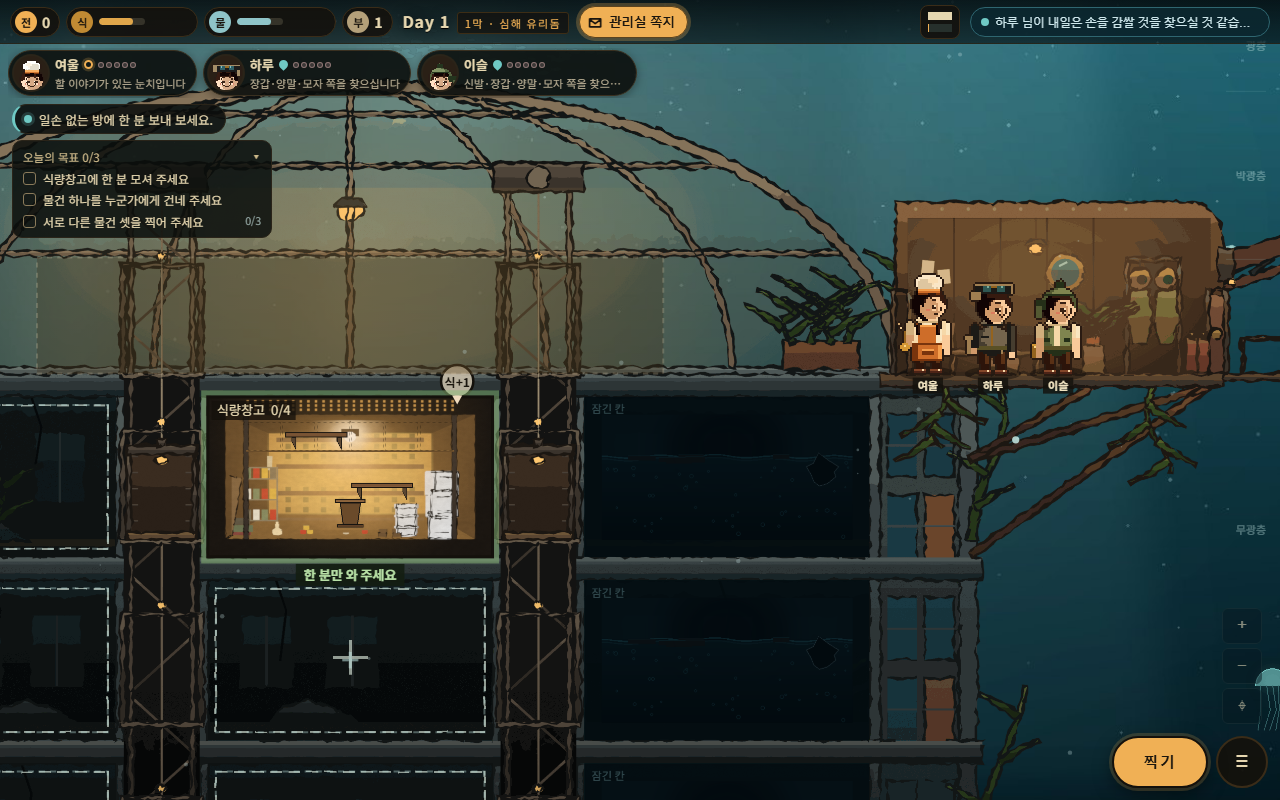
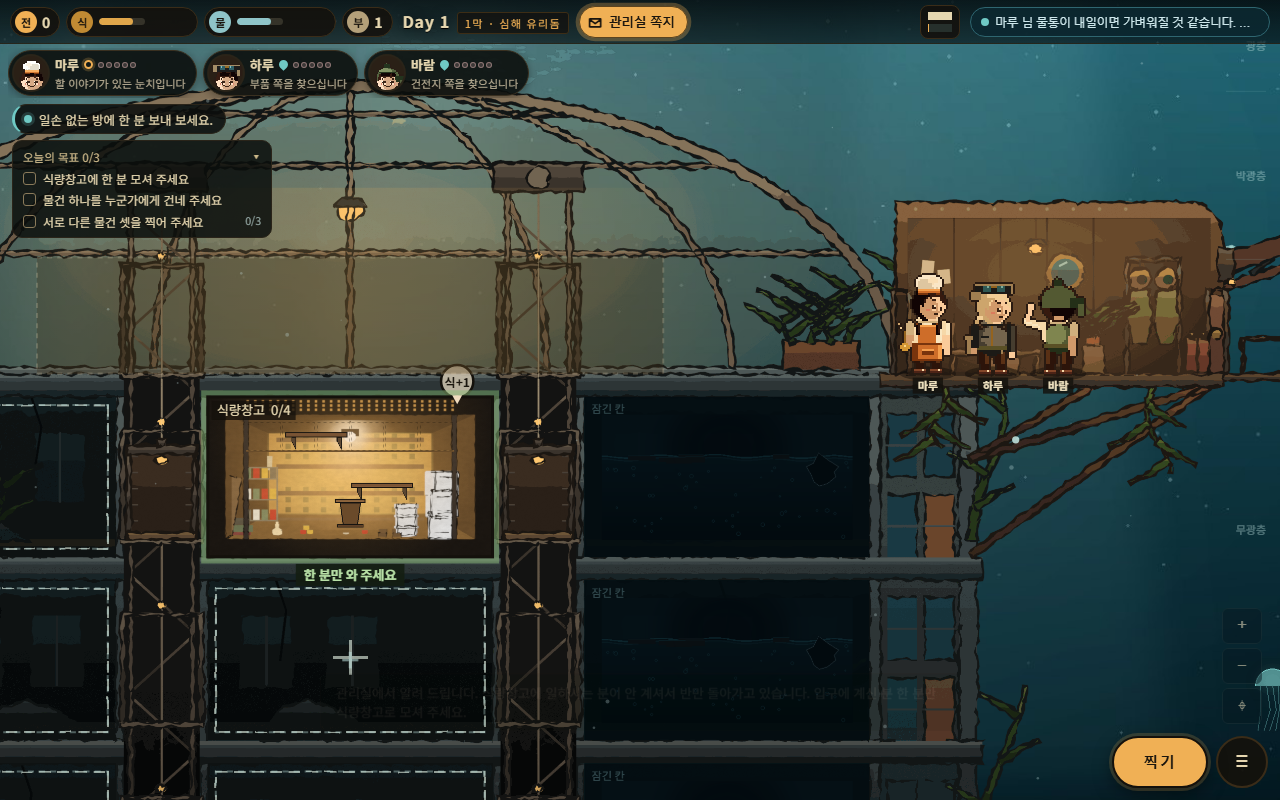
feat(relic-ark): S37 주민 겉모습 — 체형·머리·얼굴을 uid·주민 id로 정해 저장(역할·이름과 무관), 방 안·문간에 그대로 그림; API §26, test_s37

diff --git a/projects/02-barcode-game/v2-relic-ark/static/base_people.js b/projects/02-barcode-game/v2-relic-ark/static/base_people.js
@@ -89,6 +89,10 @@
     const sb = strip.hidden ? top0 : strip.getBoundingClientRect().bottom;
     const ns = $('#nextstep'); if (ns) ns.style.top = (sb + 6) + 'px';
   }
+  // S35 겉모습(API §26): residents_list[].appearance {body, hair, face, sheet} → 그리기가 읽는 p.body·hair·face 로 옮긴다
+  const lookIn = (st) => (st.residents_list || []).forEach(r => { const ap = r && r.appearance; if (!ap) return; if (ap.body) r.body = ap.body; if (ap.hair) r.hair = ap.hair; if (ap.face) r.face = ap.face; });
+  K.onApply((st) => lookIn(st));
+  if (K.ark) lookIn(K.ark);
   K.onApply(() => setTimeout(drawFaces, 0));
   // 패널(짓기·도감 등)이 열리면 얼굴 띠는 잠시 숨는다 — 큰 창은 하나(패널 위로 띠가 겹치던 것)
   const pn = document.getElementById('panel');

diff --git a/projects/02-barcode-game/v2-relic-ark/tests/test_s37.py b/projects/02-barcode-game/v2-relic-ark/tests/test_s37.py
@@ -1,0 +1,87 @@
+"""S37 서버 검증 — 주민 겉모습(appearance: 체형·머리·얼굴).
+
+실행:  python tests/test_s37.py
+"""
+from __future__ import annotations
+
+import collections
+import os
+import random
+import sys
+import tempfile
+import traceback
+from pathlib import Path
+
+os.environ["RELIC_DEV"] = "1"
+ROOT = Path(__file__).resolve().parent.parent
+sys.path.insert(0, str(ROOT))
+sys.stdout.reconfigure(encoding="utf-8")
+
+import server as S  # noqa: E402
+from fastapi.testclient import TestClient  # noqa: E402
+
+S.DB = Path(tempfile.mkdtemp()) / "t37.db"
+S.DEV_MODE = True
+S.NEW_STATE_SEED = "s37"
+S.init_db()
+C = TestClient(S.app)
+RESULTS: list[tuple[bool, str]] = []
+S.now_hour = lambda: 10
+
+
+def ok(cond, msg):
+    RESULTS.append((bool(cond), msg))
+    print(("OK   " if cond else "FAIL ") + msg)
+
+
+def t_fields_and_persist():
+    """/api/ark core.residents[].appearance · residents_list 에도 · 한 번 정하면 그대로."""
+    uid = "dev_s37_a"
+    a = C.get(f"/api/ark?uid={uid}").json()
+    aps = {rid: r["appearance"] for rid, r in a["core"]["residents"].items()}
+    ok(all(ap["body"] in ("a", "b") and ap["hair"] in S.LOOK_HAIRS and ap["face"] in S.LOOK_FACES for ap in aps.values()), f"겉모습 {aps}")
+    st = S.load_state(uid)
+    ok(all(r.get("appearance") == aps[r["id"]] for r in st["residents_list"]), "residents_list 에 저장")
+    again = C.get(f"/api/ark?uid={uid}").json()["core"]["residents"]
+    ok(all(again[rid]["appearance"] == ap for rid, ap in aps.items()), "다시 열어도 같다")
+    r0 = st["residents_list"][0]
+    ok(S.appearance_of(uid, dict(r0, appearance=None)) == aps[r0["id"]], "같은 uid+id → 같은 겉모습(D6)")
+    ok(all(aps[r["id"]]["sheet"] == r["role"] + ("_b" if aps[r["id"]]["body"] == "b" else "") for r in st["residents_list"]), "시트 이름 role[_b]")
+
+
+def t_distribution_independent():
+    """많은 사람: 체형 a·b, 머리 6, 얼굴 3이 고르게 · 역할(아이 포함)과 무관 · 18조합 모두 나온다."""
+    by_role = collections.defaultdict(collections.Counter)
+    bodies, hairs, faces, combos = collections.Counter(), collections.Counter(), collections.Counter(), set()
+    for i in range(1200):
+        role = S.ROLE_IDS[i % len(S.ROLE_IDS)]
+        r = S.make_resident(role, random.Random(i), set(), "u")
+        ap = S.appearance_of(f"u{i // 7}", r)
+        bodies[ap["body"]] += 1
+        hairs[ap["hair"]] += 1
+        faces[ap["face"]] += 1
+        combos.add((ap["hair"], ap["face"]))
+        by_role[role][ap["body"]] += 1
+    ok(min(bodies.values()) / sum(bodies.values()) > 0.4, f"체형 {dict(bodies)}")
+    ok(len(hairs) == 6 and min(hairs.values()) > 120, f"머리 {dict(hairs)}")
+    ok(len(faces) == 3 and min(faces.values()) > 300, f"얼굴 {dict(faces)}")
+    ok(len(combos) == 18, f"머리×얼굴 {len(combos)}조합")
+    ok(all(min(c.values()) / sum(c.values()) > 0.3 for c in by_role.values()), f"역할마다 체형 섞임(아이 {dict(by_role['kid'])})")
+
+
+TESTS = [t_fields_and_persist, t_distribution_independent]
+
+if __name__ == "__main__":
+    for t in TESTS:
+        print(f"\n## {t.__name__} — {(t.__doc__ or '').strip().splitlines()[0] if t.__doc__ else ''}")
+        try:
+            t()
+        except Exception:
+            traceback.print_exc()
+            RESULTS.append((False, f"{t.__name__} 예외"))
+    n = len(RESULTS)
+    f = [m for c, m in RESULTS if not c]
+    print(f"\n합계 {n} · 통과 {n - len(f)} · 실패 {len(f)}")
+    for m in f:
+        print("  FAIL", m)
+    sys.exit(1 if f else 0)

diff --git a/projects/02-barcode-game/v2-relic-ark/server.py b/projects/02-barcode-game/v2-relic-ark/server.py
@@ -1708,6 +1708,8 @@ def combat_public(st: dict) -> dict:
 
 
 def public_state(st: dict, uid: str) -> dict:
+    for _r in st.get("residents_list") or []:
+        appearance_of(uid, _r)                        # S37 residents_list 에도 겉모습(한 번 정하면 저장)
     with db() as con:
         today = con.execute("SELECT COUNT(*) c FROM scans WHERE uid=? AND day=?", (uid, day_of(st))).fetchone()["c"]
     _un = use_tick(st, uid)                           # S36 먼저 적어야 core.rooms.today_used 가 맞다
@@ -7519,6 +7521,7 @@ def core_public(st: dict, uid: str) -> dict:
             "third_memory_open": bool(r.get("third_memory_open")),
             "notebook": notebook_public(st, uid, r),             # S23 사람 수첩
             "heart": heart_public(st, r),                        # S34 마음
+            "appearance": appearance_of(uid, r),                 # S37 겉모습(체형·머리·얼굴)
             **comfort_public(st, uid, r),                        # S34 편한 방
         }
     return {"residents": res, "props": list(core_of(st)["props"]), "rooms": use_rooms_public(st)}   # S36 쓰는 자리
@@ -11629,6 +11632,39 @@ def use_tick(st: dict, uid: str) -> list:
     for k in [k for k, v in log_.items() if int(v) < day - 7]:
         log_.pop(k, None)
     return news
+
+
+# ── S37 주민 겉모습(static/art/chars/front/p2/meta.json bodies·hair·faces) ─────────────
+try:
+    _CHMETA = json.loads((ROOT / "static" / "art" / "chars" / "front" / "p2" / "meta.json").read_text(encoding="utf-8"))
+except (OSError, json.JSONDecodeError):
+    _CHMETA = {}
+LOOK_BODIES = sorted((_CHMETA.get("bodies") or {"a": {}, "b": {}}).keys())
+LOOK_HAIRS = [h["id"] for h in _CHMETA.get("hair") or []] or ["short", "tied", "long", "braid", "curly", "scarf"]
+LOOK_FACES = [f["id"] for f in _CHMETA.get("faces") or []] or ["f0", "f1", "f2"]
+
+
+def _fnv(text: str) -> int:
+    h = 2166136261
+    for ch in text:
+        h = ((h ^ ord(ch)) * 16777619) & 0xFFFFFFFF
+    return h
+
+
+def appearance_of(uid: str, r: dict) -> dict:
+    """체형·머리·얼굴 — 역할·성별·이름·특이점과 무관하게 uid + 주민 id 로만 고른다(D6, 2026-10-01 역할≠성별).
+    생성기 pick_look 과 같은 FNV 꼴(role 자리에 uid|id). 아이도 같은 체형 a·b(시트는 kid / kid_b). 18조합 모두 조합 패치가 있다.
+    한 번 정하면 r["appearance"] 에 남는다."""
+    ap = r.get("appearance")
+    if isinstance(ap, dict) and ap.get("body") in LOOK_BODIES and ap.get("hair") in LOOK_HAIRS and ap.get("face") in LOOK_FACES:
+        return ap
+    key = f"{uid}|{r.get('id')}"
+    body = LOOK_BODIES[(_fnv(key + "|body") >> 7) % len(LOOK_BODIES)]
+    h = _fnv(key + "|" + body + "|0")
+    ap = {"body": body, "hair": LOOK_HAIRS[h % len(LOOK_HAIRS)], "face": LOOK_FACES[(h >> 11) % len(LOOK_FACES)],
+          "sheet": f"{r.get('role')}{(_CHMETA.get('bodies') or {}).get(body, {}).get('sheet_suffix', '' if body == 'a' else '_b')}"}
+    r["appearance"] = ap
+    return ap
 
 
 # ─────────────────────────────────────────────────────────────

diff --git a/projects/02-barcode-game/v2-relic-ark/docs/reports/dev_S35_client.md b/projects/02-barcode-game/v2-relic-ark/docs/reports/dev_S35_client.md
@@ -77,3 +77,11 @@
   - 지금 서버에는 필드가 없어 견본(긴머리 + 얼굴 ②)으로 확인했다(ARKBASE.looks() = cook_a|long|f1|in, 사각형 0).
   - 확인 중 찾은 결함: 합성한 캔버스에 naturalWidth 가 없어 색 사각형으로 떨어졌다. 고쳤다.
 - 844·1280 콘솔 오류 0, 400 이상 0. 스크린샷 s35b_pods_{844,1280}.png.
+
+## 겉모습 필드 연결 (API §26, 커밋하지 않음)
+- residents_list[].appearance {body, hair, face, sheet} 를 apply 때마다 p.body·hair·face 로 옮긴다(base_people.js). 그리기는 위 「생김새」 절 그대로다(체형 B 시트 + 머리·얼굴 차이 패치).
+- 확인(8041, 새 방주 넷, 844·1280):
+  - 서버 값 그대로 그려졌다. 예: cook_b|curly|f1, engineer_b|scarf|f2, scout_a|tied|f2. 짧은머리·f0 인 사람은 패치 없이 기본 시트다.
+  - 사각형은 타이틀 뒤 6번 그대로이고, 한 번(1280)은 체형 B 시트가 늦게 와서 7번이었다.
+  - 콘솔 오류 0, 400 이상 0.
+- 남은 것: 초상(인물 카드·얼굴 띠)은 x4 시트를 오려 쓰는데, 머리·얼굴 패치가 x1 만 있어 초상에는 아직 기본 머리·얼굴만 보인다(체형 B 시트는 반영됨). 캐릭터 담당이 x4 패치를 주거나, 화면이 x1 패치를 정수 확대해 얹으면 된다. 다음 손질 때 x1 확대 쪽으로 붙이겠다.

diff --git a/projects/02-barcode-game/v2-relic-ark/docs/API_S19.md b/projects/02-barcode-game/v2-relic-ark/docs/API_S19.md
@@ -693,3 +693,18 @@
   - 사람마다 하루 한 줄 `/api/ark.use_news[] {resident_id, name, slot, spot, action, item, ko}` 가 한 번 온다.
   - 문장은 `ui_moments.use_action.<action>[]` 에서 읽는다({name} {item}).
 - 자원·숫자는 없다(장면만).
+
+## 26. S37 주민 겉모습 (2026-10-25)
+- `/api/ark.core.residents[rid].appearance` 와 `state.residents_list[].appearance` 는 `{body:"a"|"b", hair, face, sheet}` 다.
+  - hair: short · tied · long · braid · curly · scarf.
+  - face: f0 · f1 · f2.
+  - sheet: `<role>` 또는 `<role>_b`. 아이도 kid / kid_b 다.
+- **고르는 법**: uid + 주민 id 로만 고른다. 생성기 `pick_look` 과 같은 FNV 꼴이고, 체형은 별도 해시 비트를 쓴다.
+  - 역할·이름·특이점·성별과 무관하다(2026-10-01 결정).
+  - 18조합 모두 조합 패치가 있어서 어느 조합이든 그릴 수 있다(meta.json combo_patch_rule).
+  - 처음 정하면 `r.appearance` 에 저장하고, 그 뒤에는 바뀌지 않는다.
+- **그리는 순서**(meta.json imprint_compose):
+  1. `src/<sheet>.png`
+  2. `hair/<role>_<body>/<hair>.png`
+  3. 얼굴: hair≠short 이고 face≠f0 이면 `faces/<role>_<body>/<hair>_<face>.png`, 아니면 `<face>.png`
+  4. 잠수복, 그다음 각인.

diff --git a/projects/02-barcode-game/v2-relic-ark/docs/reports/dev_S19_server.md b/projects/02-barcode-game/v2-relic-ark/docs/reports/dev_S19_server.md
@@ -755,3 +755,11 @@ API §25, 진행 `docs/reports/dev_S36_progress.md`. 커밋하지 않았다.
 - **안전 목록**: 약·담배는 쳐다보기만 한다.
 - **D6**: 문장은 시드로 고른다.
 - **D7**: 문장은 시나리오 키에서 읽는다.
+
+# S37 서버 (2026-10-25) — 주민 겉모습
+- 결과: `appearance {body, hair, face, sheet}` 를 core.residents 와 residents_list 에 붙였다. uid+id 로 결정하고(생성기 pick_look 과 같은 FNV), 한 번 정하면 저장한다.
+- 검증:
+  - test_s37 10/10 이고 S13~S36 모두 통과했다.
+  - 1200명 분포: 체형 611/589, 머리 6종이 각 188~215, 얼굴 3종이 각 359~422. 18조합 모두 나왔고, 역할마다(아이 포함) 체형이 섞였다.
+- 독립성: 역할·이름·특이점과 무관하다. 성별 필드는 서버에 없다.
+- 리스크: 이미 있는 방주의 주민은 다음 조회 때 겉모습이 정해진다. 지금까지 모두 같은 모습이었으므로 바뀌어 보이는 것은 의도한 변화다.
